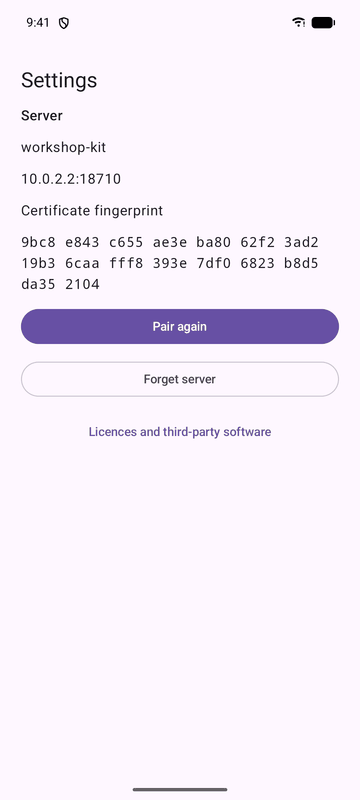
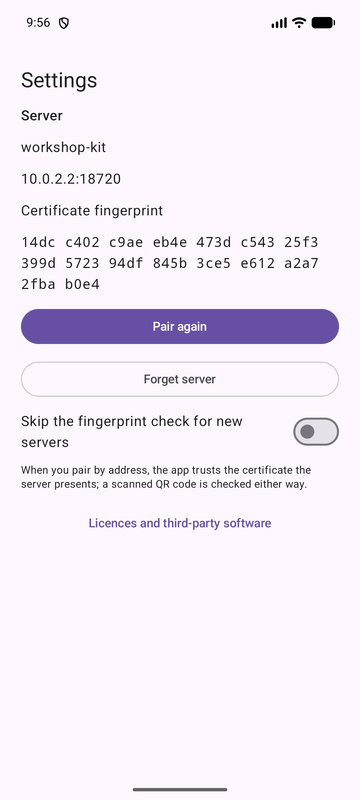
feat(app): a Settings switch skips the fingerprint check for new servers
Off by default. With it on, pairing by address goes from the address straight to
the 6-digit code and pins the certificate the server presented. A scanned QR code
is checked either way, and a certificate that changes later still stops the app.
Forget server leaves the choice as it is.

The manual mismatch panel's label says "Fingerprint seen first", since with the
switch on nobody checked it. The Settings screen scrolls now.

diff --git a/android/app/src/main/java/com/thompsonfabco/filamentkit/ui/settings/SettingsScreen.kt b/android/app/src/main/java/com/thompsonfabco/filamentkit/ui/settings/SettingsScreen.kt
@@ -2,13 +2,18 @@ package com.thompsonfabco.filamentkit.ui.settings
 
 import androidx.compose.foundation.layout.Arrangement
 import androidx.compose.foundation.layout.Column
+import androidx.compose.foundation.layout.Row
 import androidx.compose.foundation.layout.fillMaxSize
 import androidx.compose.foundation.layout.fillMaxWidth
 import androidx.compose.foundation.layout.padding
+import androidx.compose.foundation.rememberScrollState
+import androidx.compose.foundation.selection.toggleable
+import androidx.compose.foundation.verticalScroll
 import androidx.compose.material3.AlertDialog
 import androidx.compose.material3.Button
 import androidx.compose.material3.MaterialTheme
 import androidx.compose.material3.OutlinedButton
+import androidx.compose.material3.Switch
 import androidx.compose.material3.Text
 import androidx.compose.material3.TextButton
 import androidx.compose.runtime.Composable
@@ -16,10 +21,13 @@ import androidx.compose.runtime.getValue
 import androidx.compose.runtime.mutableStateOf
 import androidx.compose.runtime.remember
 import androidx.compose.runtime.setValue
+import androidx.compose.ui.Alignment
 import androidx.compose.ui.Modifier
+import androidx.compose.ui.semantics.Role
 import androidx.compose.ui.text.font.FontFamily
 import androidx.compose.ui.unit.dp
 import com.thompsonfabco.filamentkit.data.ServerConfig
+import com.thompsonfabco.filamentkit.ui.pair.PairTexts
 import com.thompsonfabco.filamentkit.ui.pair.groupFingerprint
 
 /**
@@ -33,10 +41,12 @@ fun SettingsScreen(
     onForget: () -> Unit,
     modifier: Modifier = Modifier,
     onLicences: () -> Unit = {},
+    skipFingerprintCheck: Boolean = false,
+    onSkipFingerprintCheck: (Boolean) -> Unit = {},
 ) {
     var confirmForget by remember { mutableStateOf(false) }
     Column(
-        modifier.fillMaxSize().padding(24.dp),
+        modifier.fillMaxSize().verticalScroll(rememberScrollState()).padding(24.dp),
         verticalArrangement = Arrangement.spacedBy(12.dp),
     ) {
         Text("Settings", style = MaterialTheme.typography.headlineSmall)
@@ -53,6 +63,18 @@ fun SettingsScreen(
         if (config != null) {
             OutlinedButton(onClick = { confirmForget = true }, modifier = Modifier.fillMaxWidth()) { Text("Forget server") }
         }
+        Row(
+            Modifier.fillMaxWidth().toggleable(
+                value = skipFingerprintCheck,
+                role = Role.Switch,
+                onValueChange = onSkipFingerprintCheck,
+            ),
+            verticalAlignment = Alignment.CenterVertically,
+        ) {
+            Text(PairTexts.SKIP_CHECK_LABEL, Modifier.weight(1f).padding(end = 12.dp))
+            Switch(checked = skipFingerprintCheck, onCheckedChange = null)
+        }
+        Text(PairTexts.SKIP_CHECK_HELP, style = MaterialTheme.typography.bodySmall)
         TextButton(onClick = onLicences, modifier = Modifier.fillMaxWidth()) { Text("Licences and third-party software") }
     }
     if (confirmForget) {

diff --git a/android/app/src/test/java/com/thompsonfabco/filamentkit/ui/pair/PairViewModelTest.kt b/android/app/src/test/java/com/thompsonfabco/filamentkit/ui/pair/PairViewModelTest.kt
@@ -24,6 +24,8 @@ private class FakeSettings : SettingsStore {
     var saves = 0
     override suspend fun save(config: ServerConfig) { saved = config; saves++ }
     override suspend fun clear() { saved = null }
+    var skip = false
+    override suspend fun skipsFingerprintCheck() = skip
 }
 
 private class FakeBackend : PairingBackend {
@@ -96,6 +98,40 @@ class PairViewModelTest {
         assertEquals(Step.Address, ui.step)
         assertNull(ui.fingerprint)
         assertFalse(backend.calls.any { it.startsWith("pair") })
+    }
+
+    @Test fun withTheCheckSkippedAddressGoesStraightToTheCodeAndPinsTheProbedCertificate() {
+        settings.skip = true
+        vm.submitAddress("10.0.0.2", "9000")
+        assertEquals(Step.Code, ui.step)
+        assertEquals(FP, ui.fingerprint)
+        assertFalse(backend.calls.any { it.startsWith("pair") })
+        vm.submitCode("123456")
+        assertEquals(Step.Done, ui.step)
+        assertEquals(ServerConfig(listOf("10.0.0.2"), 9000, FP, "token-1", "Workshop server"), settings.saved)
+    }
+
+    @Test fun withTheCheckSkippedAFoundServerGoesStraightToTheCode() {
+        settings.skip = true
+        vm.connectDiscovered("10.0.0.2", 8710)
+        assertEquals(Step.Code, ui.step)
+    }
+
+    @Test fun skippingTheCheckStillStopsOnACertificateChangedBeforeTheCode() {
+        settings.skip = true
+        backend.pairResult = { throw FingerprintMismatch(FP, "other") }
+        vm.submitAddress("10.0.0.2", "")
+        vm.submitCode("123456")
+        assertEquals(MismatchSource.MANUAL, ui.mismatch?.source)
+        assertNull(settings.saved)
+    }
+
+    @Test fun skippingTheCheckDoesNotCoverAScannedCode() {
+        settings.skip = true
+        backend.infoResult = { throw FingerprintMismatch(FP, "other") }
+        vm.onQrScanned(qr())
+        assertEquals(MismatchSource.QR, ui.mismatch?.source)
+        assertNull(settings.saved)
     }
 
     @Test fun wrongCodeShowsTheServersMessageAndAllowsRetry() {

diff --git a/android/app/src/main/java/com/thompsonfabco/filamentkit/data/Settings.kt b/android/app/src/main/java/com/thompsonfabco/filamentkit/data/Settings.kt
@@ -3,10 +3,12 @@ package com.thompsonfabco.filamentkit.data
 import android.content.Context
 import androidx.datastore.core.DataStore
 import androidx.datastore.preferences.core.Preferences
+import androidx.datastore.preferences.core.booleanPreferencesKey
 import androidx.datastore.preferences.core.edit
 import androidx.datastore.preferences.core.stringPreferencesKey
 import androidx.datastore.preferences.preferencesDataStore
 import kotlinx.coroutines.flow.Flow
+import kotlinx.coroutines.flow.first
 import kotlinx.coroutines.flow.map
 import kotlinx.serialization.Serializable
 import kotlinx.serialization.json.Json
@@ -28,6 +30,9 @@ data class ServerConfig(
 interface SettingsStore {
     suspend fun save(config: ServerConfig)
     suspend fun clear()
+
+    /** The user chose to skip the fingerprint check when pairing with a new server by address. */
+    suspend fun skipsFingerprintCheck(): Boolean = false
 }
 
 /**
@@ -50,8 +55,18 @@ class Settings(private val store: DataStore<Preferences>) : SettingsStore {
         store.edit { it.remove(KEY) }
     }
 
+    /** Off unless the user turned it on. It belongs to the phone, so forgetting a server leaves it as it is. */
+    val skipFingerprintCheck: Flow<Boolean> = store.data.map { it[SKIP_FINGERPRINT] ?: false }
+
+    override suspend fun skipsFingerprintCheck(): Boolean = skipFingerprintCheck.first()
+
+    suspend fun setSkipFingerprintCheck(skip: Boolean) {
+        store.edit { it[SKIP_FINGERPRINT] = skip }
+    }
+
     companion object {
         private val KEY = stringPreferencesKey("server")
+        private val SKIP_FINGERPRINT = booleanPreferencesKey("skip_fingerprint_check")
 
         private val Context.dataStore by preferencesDataStore("settings")
 

diff --git a/android/app/src/androidTest/java/com/thompsonfabco/filamentkit/ui/pair/PairFlowTest.kt b/android/app/src/androidTest/java/com/thompsonfabco/filamentkit/ui/pair/PairFlowTest.kt
@@ -31,6 +31,8 @@ class PairFlowTest {
         @Volatile var saved: ServerConfig? = null
         override suspend fun save(config: ServerConfig) { saved = config }
         override suspend fun clear() { saved = null }
+        var skip = false
+        override suspend fun skipsFingerprintCheck() = skip
     }
 
     private class Backend : PairingBackend {
@@ -82,5 +84,26 @@ class PairFlowTest {
         assertEquals(FP, store.saved?.fingerprint)
         assertEquals(listOf("10.0.0.2"), store.saved?.endpoints)
         assertEquals(listOf("000000", "123456"), backend.codes)
+    }
+
+    @Test fun withTheCheckSkippedTheAddressGoesStraightToTheCode() {
+        val store = Store().apply { skip = true }
+        val backend = Backend().apply { wrongOnce = false }
+        val vm = PairViewModel(store, backend, CoroutineScope(Dispatchers.Main.immediate))
+        var paired = false
+        rule.setContent {
+            MaterialTheme { PairScreen(vm, emptyList(), onPaired = { paired = true }) }
+        }
+
+        rule.onNodeWithText("Enter address").performClick()
+        rule.onNodeWithText("Host name or IP address").performTextInput("10.0.0.2")
+        rule.onNodeWithText("Connect").performClick()
+
+        rule.waitUntil(5_000) { vm.state.value.step == Step.Code }
+        rule.onNodeWithText("It matches").assertDoesNotExist()
+        rule.onNodeWithText("6-digit code").performTextInput("123456")
+        rule.onNodeWithText("Pair").performClick()
+        rule.waitUntil(5_000) { paired }
+        assertEquals(FP, store.saved?.fingerprint)
     }
 }

diff --git a/android/app/src/main/java/com/thompsonfabco/filamentkit/ui/pair/PairViewModel.kt b/android/app/src/main/java/com/thompsonfabco/filamentkit/ui/pair/PairViewModel.kt
@@ -52,7 +52,8 @@ const val QR_EXPIRED =
 /**
  * Pairing flows: QR scan, and manual entry (address, then the server's certificate fingerprint for the user to
  * confirm, then the 6-digit code). Nothing is sent to the server except the probe handshake until the user has
- * confirmed the fingerprint. [scope] defaults to the ViewModel's own; tests pass one. [localNetworkMissing] turns
+ * confirmed the fingerprint, or has turned that check off in Settings; the certificate is pinned either way.
+ * [scope] defaults to the ViewModel's own; tests pass one. [localNetworkMissing] turns
  * "can't reach the server" into the local network permission message when that permission is the cause.
  */
 class PairViewModel(
@@ -89,7 +90,9 @@ class PairViewModel(
         scope.launch {
             try {
                 val fp = backend.probe(host, port)
-                _state.value = PairUi(step = Step.Confirm, host = host, port = port, fingerprint = fp)
+                confirmed = settings.skipsFingerprintCheck()
+                val next = if (confirmed) Step.Code else Step.Confirm
+                _state.value = PairUi(step = next, host = host, port = port, fingerprint = fp)
             } catch (e: CancellationException) {
                 throw e
             } catch (e: Exception) {

diff --git a/android/app/src/test/java/com/thompsonfabco/filamentkit/data/SettingsTest.kt b/android/app/src/test/java/com/thompsonfabco/filamentkit/data/SettingsTest.kt
@@ -10,7 +10,9 @@ import kotlinx.coroutines.flow.first
 import kotlinx.coroutines.runBlocking
 import org.junit.After
 import org.junit.Assert.assertEquals
+import org.junit.Assert.assertFalse
 import org.junit.Assert.assertNull
+import org.junit.Assert.assertTrue
 import org.junit.Before
 import org.junit.Test
 import org.junit.runner.RunWith
@@ -46,6 +48,24 @@ class SettingsTest {
         val s = settings()
         s.save(config)
         assertEquals(config, s.server.first())
+    }
+
+    @Test fun theFingerprintCheckIsOnUntilTheUserSkipsIt() = runBlocking {
+        val s = settings()
+        assertFalse(s.skipsFingerprintCheck())
+        s.setSkipFingerprintCheck(true)
+        assertTrue(s.skipsFingerprintCheck())
+        s.setSkipFingerprintCheck(false)
+        assertFalse(s.skipsFingerprintCheck())
+    }
+
+    @Test fun forgettingAServerLeavesTheChoiceAboutTheCheck() = runBlocking {
+        val s = settings()
+        s.save(config)
+        s.setSkipFingerprintCheck(true)
+        s.clear()
+        assertNull(s.server.first())
+        assertTrue(s.skipsFingerprintCheck())
     }
 
     @Test fun saveReplacesAndClearRemoves() = runBlocking {

diff --git a/android/app/src/main/java/com/thompsonfabco/filamentkit/ui/pair/PairTexts.kt b/android/app/src/main/java/com/thompsonfabco/filamentkit/ui/pair/PairTexts.kt
@@ -18,6 +18,10 @@ object PairTexts {
     fun confirmIntro(host: String) = "$host presented this certificate fingerprint. Compare it with the fingerprint " +
         "shown with the pairing code on the server before you continue."
 
+    const val SKIP_CHECK_LABEL = "Skip the fingerprint check for new servers"
+    const val SKIP_CHECK_HELP = "When you pair by address, the app trusts the certificate the server presents; a " +
+        "scanned QR code is checked either way."
+
     fun mismatch(m: Mismatch, host: String): MismatchText = when (m.source) {
         MismatchSource.STORED -> MismatchText(
             title = "The server's certificate has changed",
@@ -37,7 +41,7 @@ object PairTexts {
         MismatchSource.MANUAL -> MismatchText(
             title = "The server's certificate changed while pairing",
             body = "Start again. If it happens again, something else may be answering at $host.",
-            expectedLabel = "Fingerprint you checked",
+            expectedLabel = "Fingerprint seen first",
             actualLabel = "Fingerprint now",
             button = "Start again",
         )

diff --git a/android/app/src/main/java/com/thompsonfabco/filamentkit/MainActivity.kt b/android/app/src/main/java/com/thompsonfabco/filamentkit/MainActivity.kt
@@ -135,6 +135,7 @@ private fun FilamentKitApp(app: AppViewModel = viewModel()) {
 
     val api by app.session.api.collectAsStateWithLifecycle()
     val config by app.session.config.collectAsStateWithLifecycle()
+    val skipFingerprintCheck by app.settings.skipFingerprintCheck.collectAsStateWithLifecycle(initialValue = false)
     val connection by app.session.connection.collectAsStateWithLifecycle()
     val fp = config?.fingerprint
 
@@ -332,6 +333,8 @@ private fun FilamentKitApp(app: AppViewModel = viewModel()) {
                 onPairAgain = app.router::pairAgain,
                 onForget = { app.forget { nav.navigateClearing(Routes.PAIR) } },
                 onLicences = { nav.navigate(Routes.LICENCES) },
+                skipFingerprintCheck = skipFingerprintCheck,
+                onSkipFingerprintCheck = app::setSkipFingerprintCheck,
             )
         }
 

diff --git a/android/app/src/test/java/com/thompsonfabco/filamentkit/ui/pair/PairTextsTest.kt b/android/app/src/test/java/com/thompsonfabco/filamentkit/ui/pair/PairTextsTest.kt
@@ -27,7 +27,7 @@ class PairTextsTest {
     @Test fun theManualPathNamesTheCheckJustMade() {
         val t = text(MismatchSource.MANUAL)
         assertEquals("The server's certificate changed while pairing", t.title)
-        assertEquals("Fingerprint you checked", t.expectedLabel)
+        assertEquals("Fingerprint seen first", t.expectedLabel)
         assertTrue(t.body, "kit.local" in t.body)
         assertFalse("no code was named on this path", "code" in t.body)
     }

diff --git a/android/app/src/main/java/com/thompsonfabco/filamentkit/session/AppViewModel.kt b/android/app/src/main/java/com/thompsonfabco/filamentkit/session/AppViewModel.kt
@@ -81,6 +81,11 @@ class AppViewModel(app: Application) : AndroidViewModel(app) {
         updater.close()
     }
 
+    /** Settings → Skip the fingerprint check for new servers. */
+    fun setSkipFingerprintCheck(skip: Boolean) {
+        viewModelScope.launch { settings.setSkipFingerprintCheck(skip) }
+    }
+
     /** Settings → Forget server. */
     fun forget(then: () -> Unit) {
         viewModelScope.launch {

diff --git a/docs/android-app.md b/docs/android-app.md
@@ -52,10 +52,14 @@ lists paired phones and `sudo filament-kit unpair <id>` removes one; that phone 
 app shows **The server's certificate changed**, compare the two fingerprints it shows: if you reinstalled the
 server it's expected, so tap **Pair again**; if not, don't continue.
 
+**Skip the fingerprint check for new servers**, in **Settings**, is off by default. With it on, pairing by address
+goes straight from the address to the 6-digit code and the app trusts the certificate the server presents. A scanned
+QR code is checked either way, and a certificate that changes after pairing still stops the app.
+
 **Licences and third-party software**, at the bottom of **Settings**, shows the app's licence (GPL-3.0-or-later) and the
 third-party software list, and the full GPL text. It works offline.
 
-<img src="images/android-settings.png" width="240" alt="Settings: server, fingerprint, Pair again, Forget server, Licences and third-party software"> <img src="images/android-licences.png" width="240" alt="Licences: GPL-3.0-or-later, Show the GPL-3.0 text, third-party software and data">
+<img src="images/android-settings.png" width="240" alt="Settings: server, fingerprint, Pair again, Forget server, Skip the fingerprint check for new servers, Licences and third-party software"> <img src="images/android-licences.png" width="240" alt="Licences: GPL-3.0-or-later, Show the GPL-3.0 text, third-party software and data">
 
 ## 2. Set up a printer
 

diff --git a/docs/user-guide.md b/docs/user-guide.md
@@ -119,7 +119,8 @@ module is off, the app gets the message that it is turned off for anything that 
 Step by step: [Install the Android app](install-android-app.md). In short: install `filament-kit.apk` from the
 Releases page (or from your server at `https://<computer name>.local:8710/app.apk`), run `sudo filament-kit pair`
 on the server, and scan the QR code it prints, or pick the server in the app, compare the fingerprint, tap
-**It matches** and type the 6-digit code. The code expires after about 10 minutes and works once; `sudo filament-kit pair` makes a new
+**It matches** and type the 6-digit code. (**Settings** in the app can skip the fingerprint check for new servers;
+it is on by default.) The code expires after about 10 minutes and works once; `sudo filament-kit pair` makes a new
 one. On Android 17 and newer the app needs **Local network** access.
 
 The app updates itself: after `sudo filament-kit update` to a release with a newer app, the home screen offers
